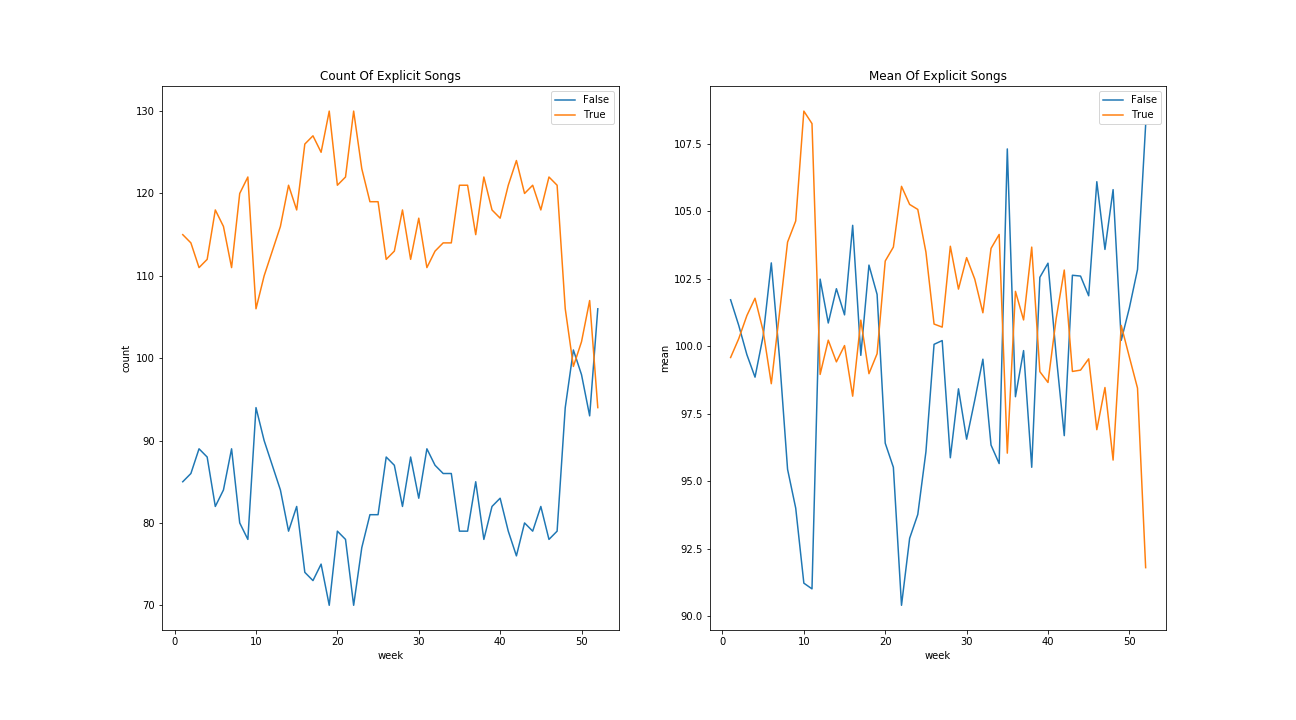
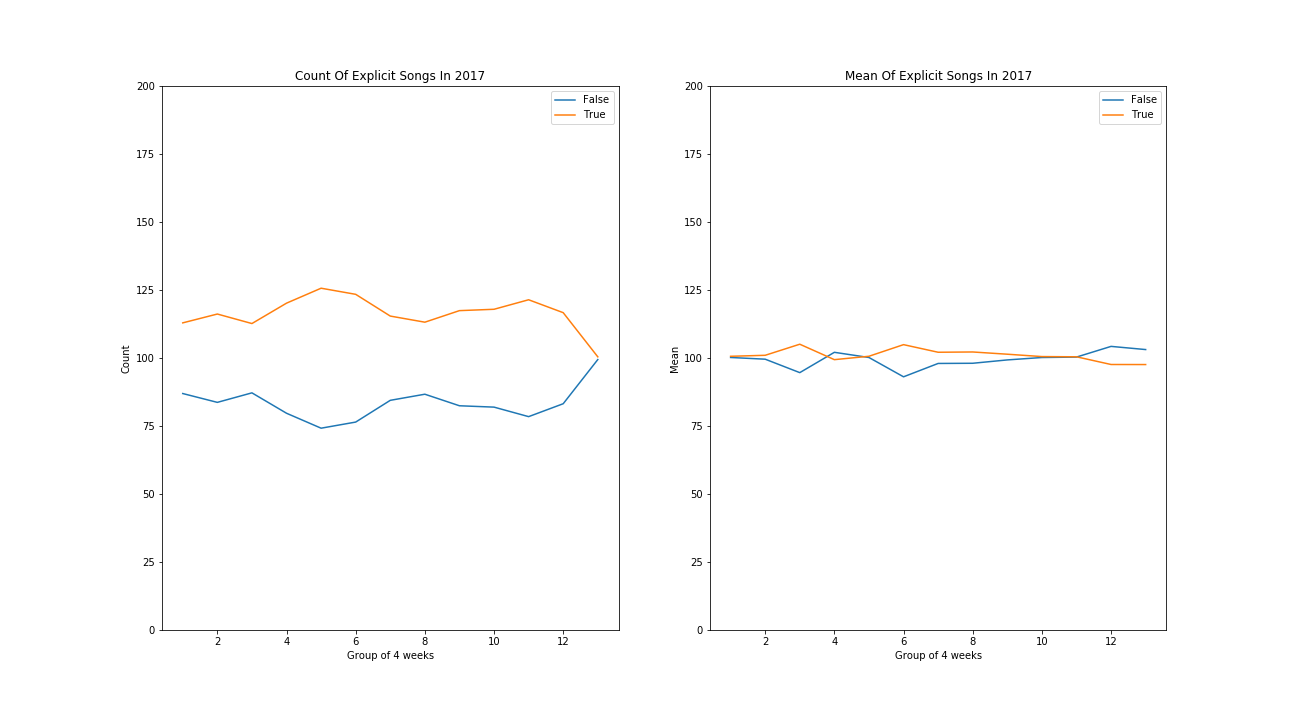
added combined 2017-2018 plots

diff --git a/weekly_averages_plotting_3x3_all_years.py b/weekly_averages_plotting_3x3_all_years.py
@@ -1,0 +1,46 @@
+import pandas as pd
+import matplotlib.pyplot as plt
+
+def read_floats(filename):
+    with open(filename) as f:
+        return [float(x) for x in f]
+
+def get_average_df(year):
+    input_file = 'output/text/' + year + '/weekly_average_' + selected_param + '.txt'
+    weekly_param_list = read_floats(input_file)
+    
+    list_of_weeks = ['week'] * 52
+    for j in range(len(list_of_weeks)):
+        list_of_weeks[j] += ' ' + str(j+1)
+    
+    df = pd.DataFrame()
+    df['Weeks']  = list_of_weeks
+    df[selected_param] = weekly_param_list
+    return df
+
+def group_weeks(df,param):
+    df_grouped = pd.DataFrame(columns=[param])
+    for i in range(0,52,4): #Groups 52 weeks into 13 groups of 4 weeks
+        row = list(df.iloc[i:i+4].mean())
+        df_grouped.loc[len(df_grouped)+1] = row
+    return df_grouped
+
+params_to_plot = ["duration_ms", "acousticness", "danceability", "energy", "instrumentalness", "loudness", "speechiness", "valence", "tempo"] # Liveness is excluded here
+
+fig, axes = plt.subplots(nrows=3, ncols=3)
+plotcount = 0
+for x_index in range(3):
+    for y_index in range(3):
+        selected_param = params_to_plot[plotcount]
+        
+        df1 = group_weeks(get_average_df('2017'),selected_param)
+        df2 = group_weeks(get_average_df('2018'),selected_param)
+        
+        df1.plot(ax=axes[x_index,y_index], figsize=(30,18), title=str('Weekly Average Of ' + selected_param), legend=True)
+        plot = df2.plot(ax=axes[x_index,y_index], figsize=(30,18), title=str('Weekly Average Of ' + selected_param))
+        
+        plot.set_xlabel("Group of 4 weeks")
+        axes[x_index,y_index].legend(['2017','2018'])
+        plotcount += 1
+
+fig.savefig('output/figures/all/weekly_average_3_3.png')

diff --git a/spotify_explicit_plotting.py b/spotify_explicit_plotting.py
@@ -1,25 +1,32 @@
 import matplotlib.pyplot as plt
 import pandas as pd
 
-data_year = '2018'
+data_year = '2017'
 df = pd.read_csv('output/dataframes/' + data_year + '/explicit.csv',index_col=0)
+
+df_grouped = pd.DataFrame(columns=list(df))
+for i in range(0,52,4): #Groups 52 weeks into 13 groups of 4 weeks
+    row = df.iloc[i:i+4].mean()
+    df_grouped.loc[len(df_grouped)+1] = row
 
 fig = plt.figure()
 
 ax1 = fig.add_subplot(121)
-ax1.set_title('Count Of Explicit Songs')
-ax1.set_xlabel('week')
-ax1.set_ylabel('count')
+ax1.set_title('Count Of Explicit Songs In ' + data_year)
+ax1.set_xlabel('Group of 4 weeks')
+ax1.set_ylabel('Count')
+ax1.set_ylim(0,200)
 
 ax2 = fig.add_subplot(122)
-ax2.set_title('Mean Of Explicit Songs')
-ax2.set_xlabel('week')
-ax2.set_ylabel('mean')
+ax2.set_title('Mean Of Explicit Songs In ' + data_year)
+ax2.set_xlabel('Group of 4 weeks')
+ax2.set_ylabel('Mean')
+ax2.set_ylim(0,200)
 
-df['count_false'].plot(ax=ax1, figsize=(18,10), legend=True, label='False')
-df['count_true'].plot(ax=ax1, figsize=(18,10),legend=True, label='True')
+df_grouped['count_false'].plot(ax=ax1, figsize=(18,10), legend=True, label='False')
+df_grouped['count_true'].plot(ax=ax1, figsize=(18,10),legend=True, label='True')
 
-df['mean_false'].plot(ax=ax2, figsize=(18,10),legend=True, label='False')
-df['mean_true'].plot(ax=ax2, figsize=(18,10),legend=True, label='True')
+df_grouped['mean_false'].plot(ax=ax2, figsize=(18,10),legend=True, label='False')
+df_grouped['mean_true'].plot(ax=ax2, figsize=(18,10),legend=True, label='True')
 
 fig.savefig('output/figures/' + data_year + '/explicit.png')

diff --git a/spotify_release_dates_plotting_all.py b/spotify_release_dates_plotting_all.py
@@ -1,0 +1,47 @@
+import matplotlib.pyplot as plt
+import pandas as pd
+
+def get_release_date_df(year):
+    df = pd.read_csv('output/dataframes/' + year + '/release_date.csv',index_col=0).loc[:,'1':'200']
+    return df
+
+def get_album_age_df(df):
+    album_df = pd.DataFrame(columns=list(range(1,201)))
+    
+    for i in range(0,52,4): #Groups 52 weeks into 13 groups of 4 weeks
+        row = list(df.iloc[i:i+4].mean())
+        album_df.loc[len(album_df)+1] = row
+    return album_df
+
+def get_track_age_df(df):
+    track_df = pd.DataFrame(columns=['mean age'])
+
+    for i in range(1,200,10): #Groups Top 200 into 20 groups of 10 tracks
+        row = df.loc[:,str(i):str(i+9)].mean().mean()
+        track_df.loc[i] = row
+    return track_df
+
+fig = plt.figure()
+ax1 = fig.add_subplot(121)
+ax1.set_title('Average Age Of Albums')
+ax1.set_xlabel('Group of 4 weeks')
+ax1.set_ylabel('Album Age (days)')
+
+df1 = get_album_age_df(get_release_date_df('2017'))
+df2 = get_album_age_df(get_release_date_df('2018'))
+df1.transpose().mean().plot(ax=ax1, figsize=(12,4))
+df2.transpose().mean().plot(ax=ax1, figsize=(12,4))
+ax1.legend(['2017','2018'])
+
+ax2 = fig.add_subplot(122)
+ax2.set_title('Average Age Of Tracks')
+ax2.set_xlabel('Track rank')
+ax2.set_ylabel('Album Age (days)')
+
+df3 = get_track_age_df(get_release_date_df('2017'))
+df4 = get_track_age_df(get_release_date_df('2018'))
+df3.plot(ax=ax2, figsize=(12,4))
+df4.plot(ax=ax2, figsize=(12,4))
+ax2.legend(['2017','2018'])
+
+fig.savefig('output/figures/all/track_age.png')

diff --git a/weekly_averages_plotting_all_years.py b/weekly_averages_plotting_all_years.py
@@ -1,0 +1,42 @@
+import pandas as pd
+import matplotlib.pyplot as plt
+
+def read_floats(filename):
+    with open(filename) as f:
+        return [float(x) for x in f]
+
+def get_average_df(year):
+    input_file = 'output/text/' + year + '/weekly_average_' + selected_param + '.txt'
+    weekly_param_list = read_floats(input_file)
+    
+    list_of_weeks = ['week'] * 52
+    for j in range(len(list_of_weeks)):
+        list_of_weeks[j] += ' ' + str(j+1)
+    
+    df = pd.DataFrame()
+    df['Weeks']  = list_of_weeks
+    df[selected_param] = weekly_param_list
+    return df
+
+def group_weeks(df,param):
+    df_grouped = pd.DataFrame(columns=[param])
+    for i in range(0,52,4): #Groups 52 weeks into 13 groups of 4 weeks
+        row = list(df.iloc[i:i+4].mean())
+        df_grouped.loc[len(df_grouped)+1] = row
+    return df_grouped
+
+params_to_plot = ["duration_ms", "acousticness", "danceability", "energy", "instrumentalness", "liveness", "loudness", "speechiness", "valence", "tempo"]
+
+for i in params_to_plot:
+    selected_param = i
+    
+    df1 = group_weeks(get_average_df('2017'),selected_param)
+    df2 = group_weeks(get_average_df('2018'),selected_param)
+    
+    ax = df1.plot(title=str('Weekly Average Of ' + selected_param), legend=True)
+    plot = df2.plot(ax=ax)
+    plot.set_xlabel("Group of 4 weeks")
+    plt.legend(['2017','2018'])
+
+    fig = plot.get_figure()
+    fig.savefig('output/figures/all/weekly_average_' + selected_param + '.png')

diff --git a/spotify_explicit_plotting_all.py b/spotify_explicit_plotting_all.py
@@ -1,0 +1,38 @@
+import matplotlib.pyplot as plt
+import pandas as pd
+
+def get_explicit_df(year):
+    df = pd.read_csv('output/dataframes/' + year + '/explicit.csv',index_col=0)
+    return df
+
+def group_weeks(df):
+    df_grouped = pd.DataFrame(columns=list(df))
+    for i in range(0,52,4): #Groups 52 weeks into 13 groups of 4 weeks
+        row = df.iloc[i:i+4].mean()
+        df_grouped.loc[len(df_grouped)+1] = row
+    return df_grouped
+
+df1 = group_weeks(get_explicit_df('2017'))
+df2 = group_weeks(get_explicit_df('2018'))
+
+fig = plt.figure()
+
+ax1 = fig.add_subplot(121)
+ax1.set_title('Count Of Explicit Songs')
+ax1.set_xlabel('Group of 4 weeks')
+ax1.set_ylabel('Count')
+ax1.set_ylim(0,200)
+
+ax2 = fig.add_subplot(122)
+ax2.set_title('Mean Of Explicit Songs')
+ax2.set_xlabel('Group of 4 weeks')
+ax2.set_ylabel('Mean')
+ax2.set_ylim(0,200)
+
+df1['count_true'].plot(ax=ax1, figsize=(18,10),legend=True, label='2017')
+df2['count_true'].plot(ax=ax1, figsize=(18,10),legend=True, label='2018')
+
+df1['mean_true'].plot(ax=ax2, figsize=(18,10),legend=True, label='2017')
+df2['mean_true'].plot(ax=ax2, figsize=(18,10),legend=True, label='2018')
+
+fig.savefig('output/figures/all/explicit.png')
